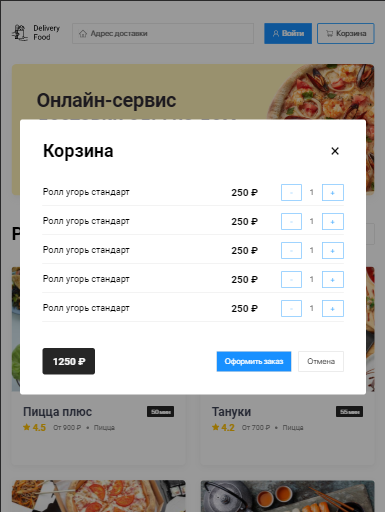
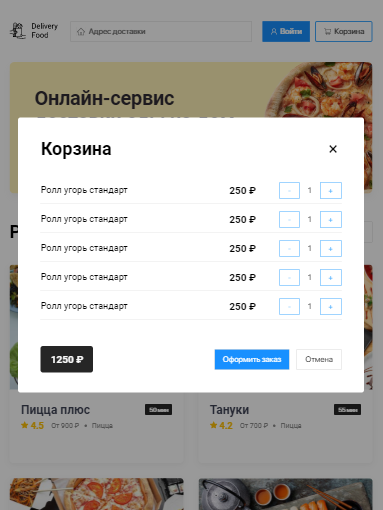
changed img for readme and readme files

diff --git a/README.md b/README.md
@@ -3,10 +3,63 @@
 Delivery Food
 
 <h1>3-pages site for food delivery</h1>
-<img src="./img/Home.jpg" alt="Home page PC" title="Home page PC" />
+<h2>PC screenshots</h2>
+<div style="display: flex; align-items: flex-start;">
+  <img
+    src="./img/Home.jpg"
+    alt="Home page PC"
+    title="Home page PC"
+    style="width: 20%;"
+  />
+  <img
+    src="./img/Restaurant.jpg"
+    alt="Restaurant page PC"
+    title="Restaurant page PC"
+    style="width: 20%;"
+  />
+  <img
+    src="./img/Cart.jpg"
+    alt="Cart page PC"
+    title="Cart page PC"
+    style="width: 20%;"
+  />
+</div>
+
+<h2>Tablet screenshots</h2>
+
 <img
-  src="./img/Restaurant.jpg"
-  alt="Restaurant page PC"
-  title="Restaurant page PC"
+  src="./img/tablet1.PNG"
+  alt="Home page tablet"
+  title="Home page tablet"
+  style="width: 20%;"
 />
-<img src="./img/Cart.jpg" alt="Cart page PC" title="Cart page PC"/>
+
+<img
+  src="./img/tablet.PNG"
+  alt="Home page tablet"
+  title="Cart page tablet"
+  style="width: 20%;"
+/>
+
+<h3>Smartphone screenshots</h3>
+
+<img
+  src="./img/mobile.jpg"
+  alt="Home page smartphone"
+  title="Home page smartphone"
+  style="height: 50%;"
+/>
+
+<img
+  src="./img/mobile1.jpg"
+  alt="Restaurant page smartphone"
+  title="Restaurant page smartphone"
+  style="height: 50%;"
+/>
+
+<img
+  src="./img/mobile2.jpg"
+  alt="Cart page smartphone"
+  title="Cart page smartphone"
+  style="height: 50%;"
+/>
